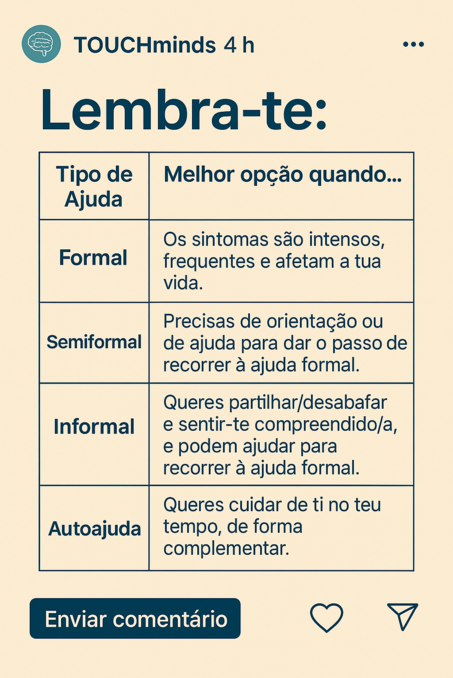
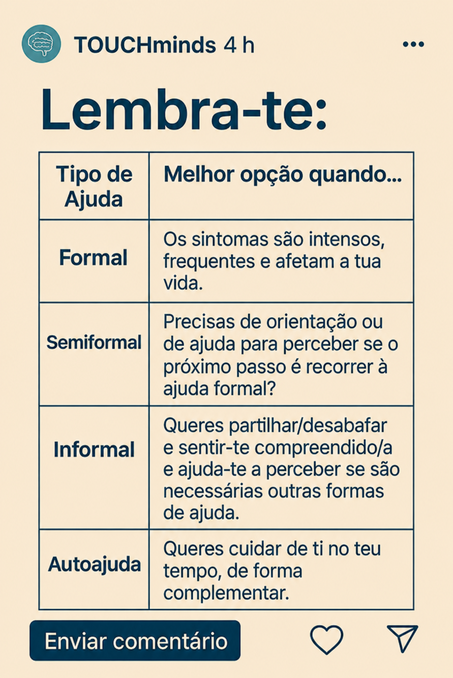
alteracoes_paula_escolhacerta

diff --git a/src/components/atividades/modulo5/escolhaCerta.js b/src/components/atividades/modulo5/escolhaCerta.js
@@ -101,17 +101,17 @@ const EscolhaCerta = () => {
     {
         imagem: "/imgs/modulo5/escolhacerta/escolha_certa_5.png",
         hotspots: [
-        { tipo: "comentar",  x: 30, y: 96, w: 45, h: 7  },
-        { tipo: "gostar",    x: 75, y: 96, w: 8, h: 6  },
-        { tipo: "partilhar", x: 89, y: 96, w: 8, h: 6  },
+        { tipo: "comentar",  x: 30, y: 90, w: 45, h: 7  },
+        { tipo: "gostar",    x: 75, y: 90, w: 8, h: 6  },
+        { tipo: "partilhar", x: 89, y: 90, w: 8, h: 6  },
         ],
     },
     {
         imagem: "/imgs/modulo5/escolhacerta/escolha_certa_6.png",
         hotspots: [
-        { tipo: "comentar",  x: 30, y: 96, w: 45, h: 7  },
-        { tipo: "gostar",    x: 75, y: 96, w: 8, h: 6  },
-        { tipo: "partilhar", x: 89, y: 96, w: 8, h: 6  },
+        { tipo: "comentar",  x: 30, y: 90, w: 45, h: 7  },
+        { tipo: "gostar",    x: 75, y: 90, w: 8, h: 6  },
+        { tipo: "partilhar", x: 89, y: 90, w: 8, h: 6  },
         ],
     },
     {
@@ -181,10 +181,10 @@ resetUI();
                                 </h2>
                                 <p className="lead">
                                     <b>Sê muito bem-vindo/a à "Escolha Certa"</b>.<br></br><br></br>
-                                    Nesta <b> atividade</b>, vais ver uma sequência de <b>stories</b> com <b> informações</b> sobre os diferentes fontes de <b>ajuda</b> que podes procurar quando
-                                    temos <b> dificuldades</b> ou <b> problemas</b> que não estamos a conseguir lidar <b> sozinho/a</b>. <br></br><br></br>
+                                    Nesta <b> atividade</b>, vais ver uma sequência de <b>stories</b> com <b> informações</b> sobre as diferentes fontes de <b>ajuda</b> que podemos procurar quando
+                                    temos <b> dificuldades</b> ou <b> problemas</b> que não estamos a conseguir lidar <b> sozinhos/as</b>. <br></br><br></br>
                                     À medida que passas por cada <b> story</b>, <b>reflete</b> sobre o que estás a ler e <b> como isso te faz sentir</b>. Vais poder
-                                    <b> interagir</b> a cada story, escolhendo uma opção que reflete a tua <b> reação</b> ao conteúdo apresentado. <br></br><br></br>
+                                    <b> interagir</b> com cada story, escolhendo uma opção que reflete a tua <b> reação</b> ao conteúdo apresentado. <br></br><br></br>
                                     A ideia é <b> aprender mais</b> sobre como podemos <b>procurar ajuda</b> e <b> refletir</b> sobre o <b>impacto</b> dessa informação no nosso <b>bem-estar</b>.
                                 </p>
                                <button
@@ -204,8 +204,8 @@ resetUI();
                                 </h4>
                                 <ul className="lead" style={{ maxWidth: 700 }}>
                                 <li><b>Gostar</b>: se achaste interessante ou útil.</li>
-                                <li><b>Partilhar</b>: se quiseres partilhar com alguém que possa precisar desta informação.</li>
-                                <li><b>Comentar</b>: se quiseres expressar o que pensaste ou como te sentiste.</li>
+                                <li><b>Partilhar</b>: se quisesses partilhar com alguém que possa precisar desta informação.</li>
+                                <li><b>Comentar</b>: se quisesses expressar o que pensaste ou como te sentiste.</li>
                                 </ul>
 
                         {/* IMAGEM + HOTSPOTS + UI */}
@@ -433,9 +433,9 @@ resetUI();
                                     <b>Procurar ajuda é um passo fundamental para o nosso bem-estar</b>.
                                     Todos nós passamos por <b> momentos difíceis</b>, e saber <b> quando</b> e a <b> quem pedir ajuda</b> é essencial para lidar com esses desafios da melhor forma.<br></br><br></br>
                                     É importante lembrar que, quando estamos perante a <b> ansiedade SOS</b>, a <b> ajuda formal</b> é <b> crucial</b>. Os <b> psicólogos</b> são preparados para lidar
-                                    com essas questões e podem fornecer a <b> ajuda necessário</b> para que possas <b> compreender</b> e <b>lidar melhor com as tuas dificuldades</b>, além de <b> desenvolver estratégias eficazes</b> para o teu <b>bem-estar</b>.<br></br><br></br>
+                                    com essas questões e podem fornecer a <b> ajuda necessária</b> para que possas <b> compreender</b> e <b>lidar melhor com as tuas dificuldades</b>, além de <b> desenvolver estratégias eficazes</b> para o teu <b>bem-estar</b>.<br></br><br></br>
                                     As ajudas semiformais e informais, por outro lado, são <b>valiosas</b> para quando precisas de <b>orientação</b> ou de <b>ajuda emocional imediata</b> de pessoas
-                                    próximas a ti; não esqueças que mesmo quando estas ajudas estão presentes,  <b>a ajuda profissional</b> deve ser uma prioridade em casos de <b>ansiedade SOS persistentes</b>.<br></br><br></br>
+                                    próximas a ti; não esqueças que mesmo quando estas ajudas estão presentes,  <b>a ajuda profissional</b> deve ser uma prioridade em casos de <b>ansiedade SOS persistente</b>.<br></br><br></br>
                                     Embora as <b>ferramentas de autoajuda</b> (como <b>apps</b>, <b>chats</b> ou <b>sites</b>) possam ser <b>úteis</b>, é necessário ter <b>cuidado</b> ao escolher essas opções. Muitas dessas
                                     plataformas <b>não são construídas por profissionais</b> e podem <b>não ser baseadas em evidências científicas confiáveis</b>. Em momentos mais desafiantes, elas podem servir
                                     como <b>complemento</b>, mas <b>nunca devem substituir</b> a ajuda de profissionais ou de pessoas cuja intenção é estar do teu lado e contribuir para o teu bem-estar. <br></br><br></br>
